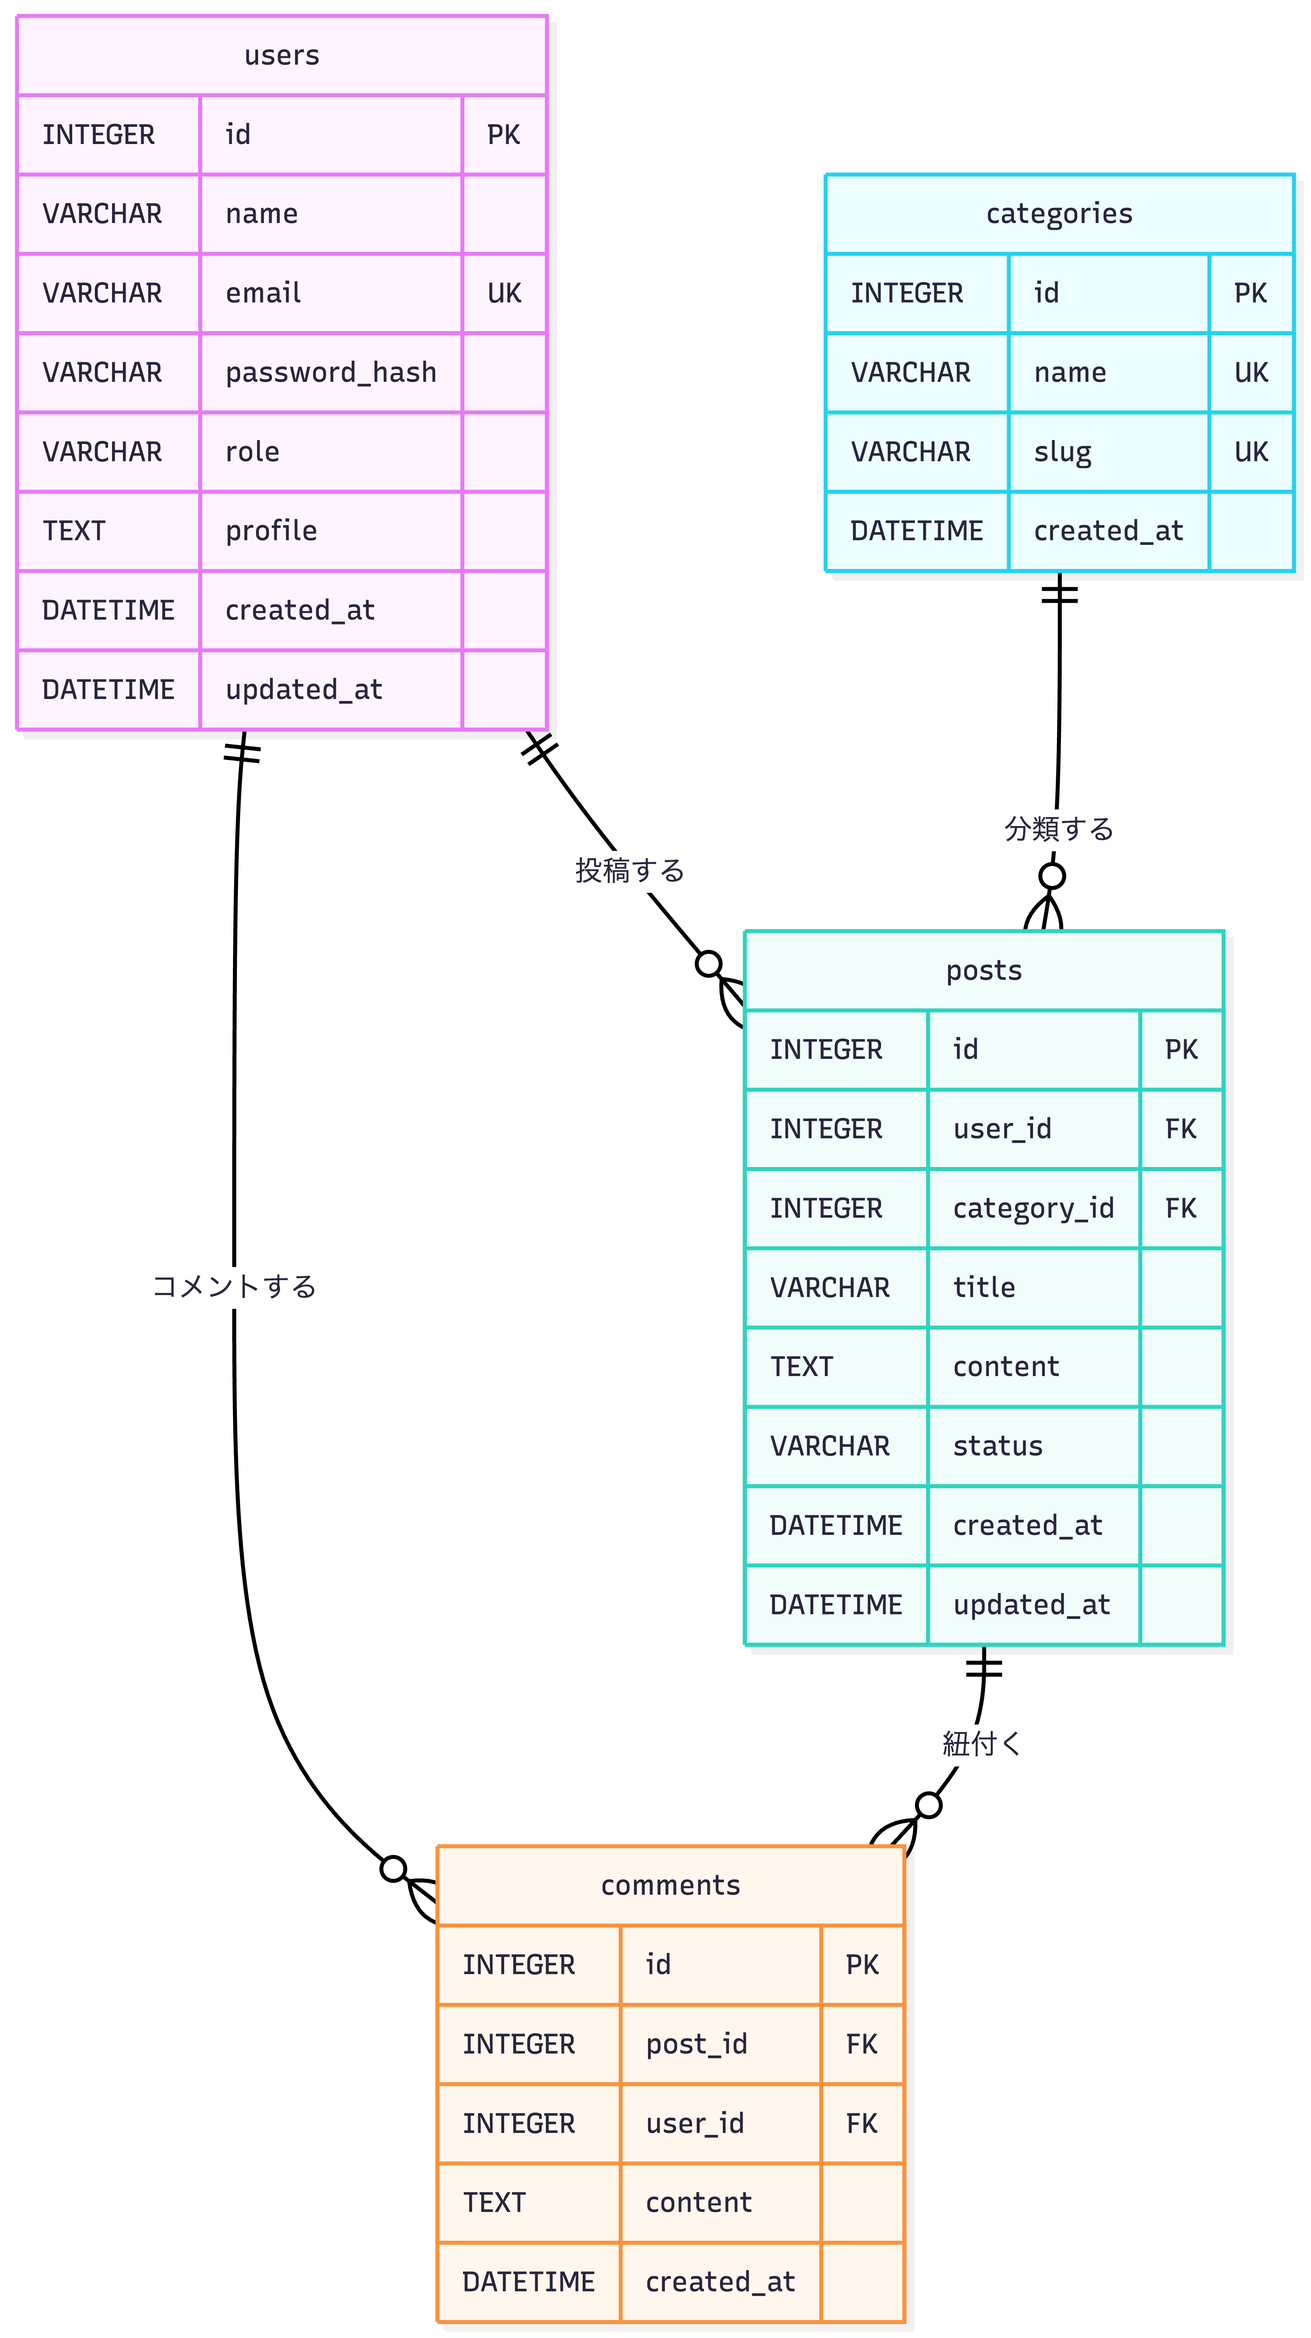
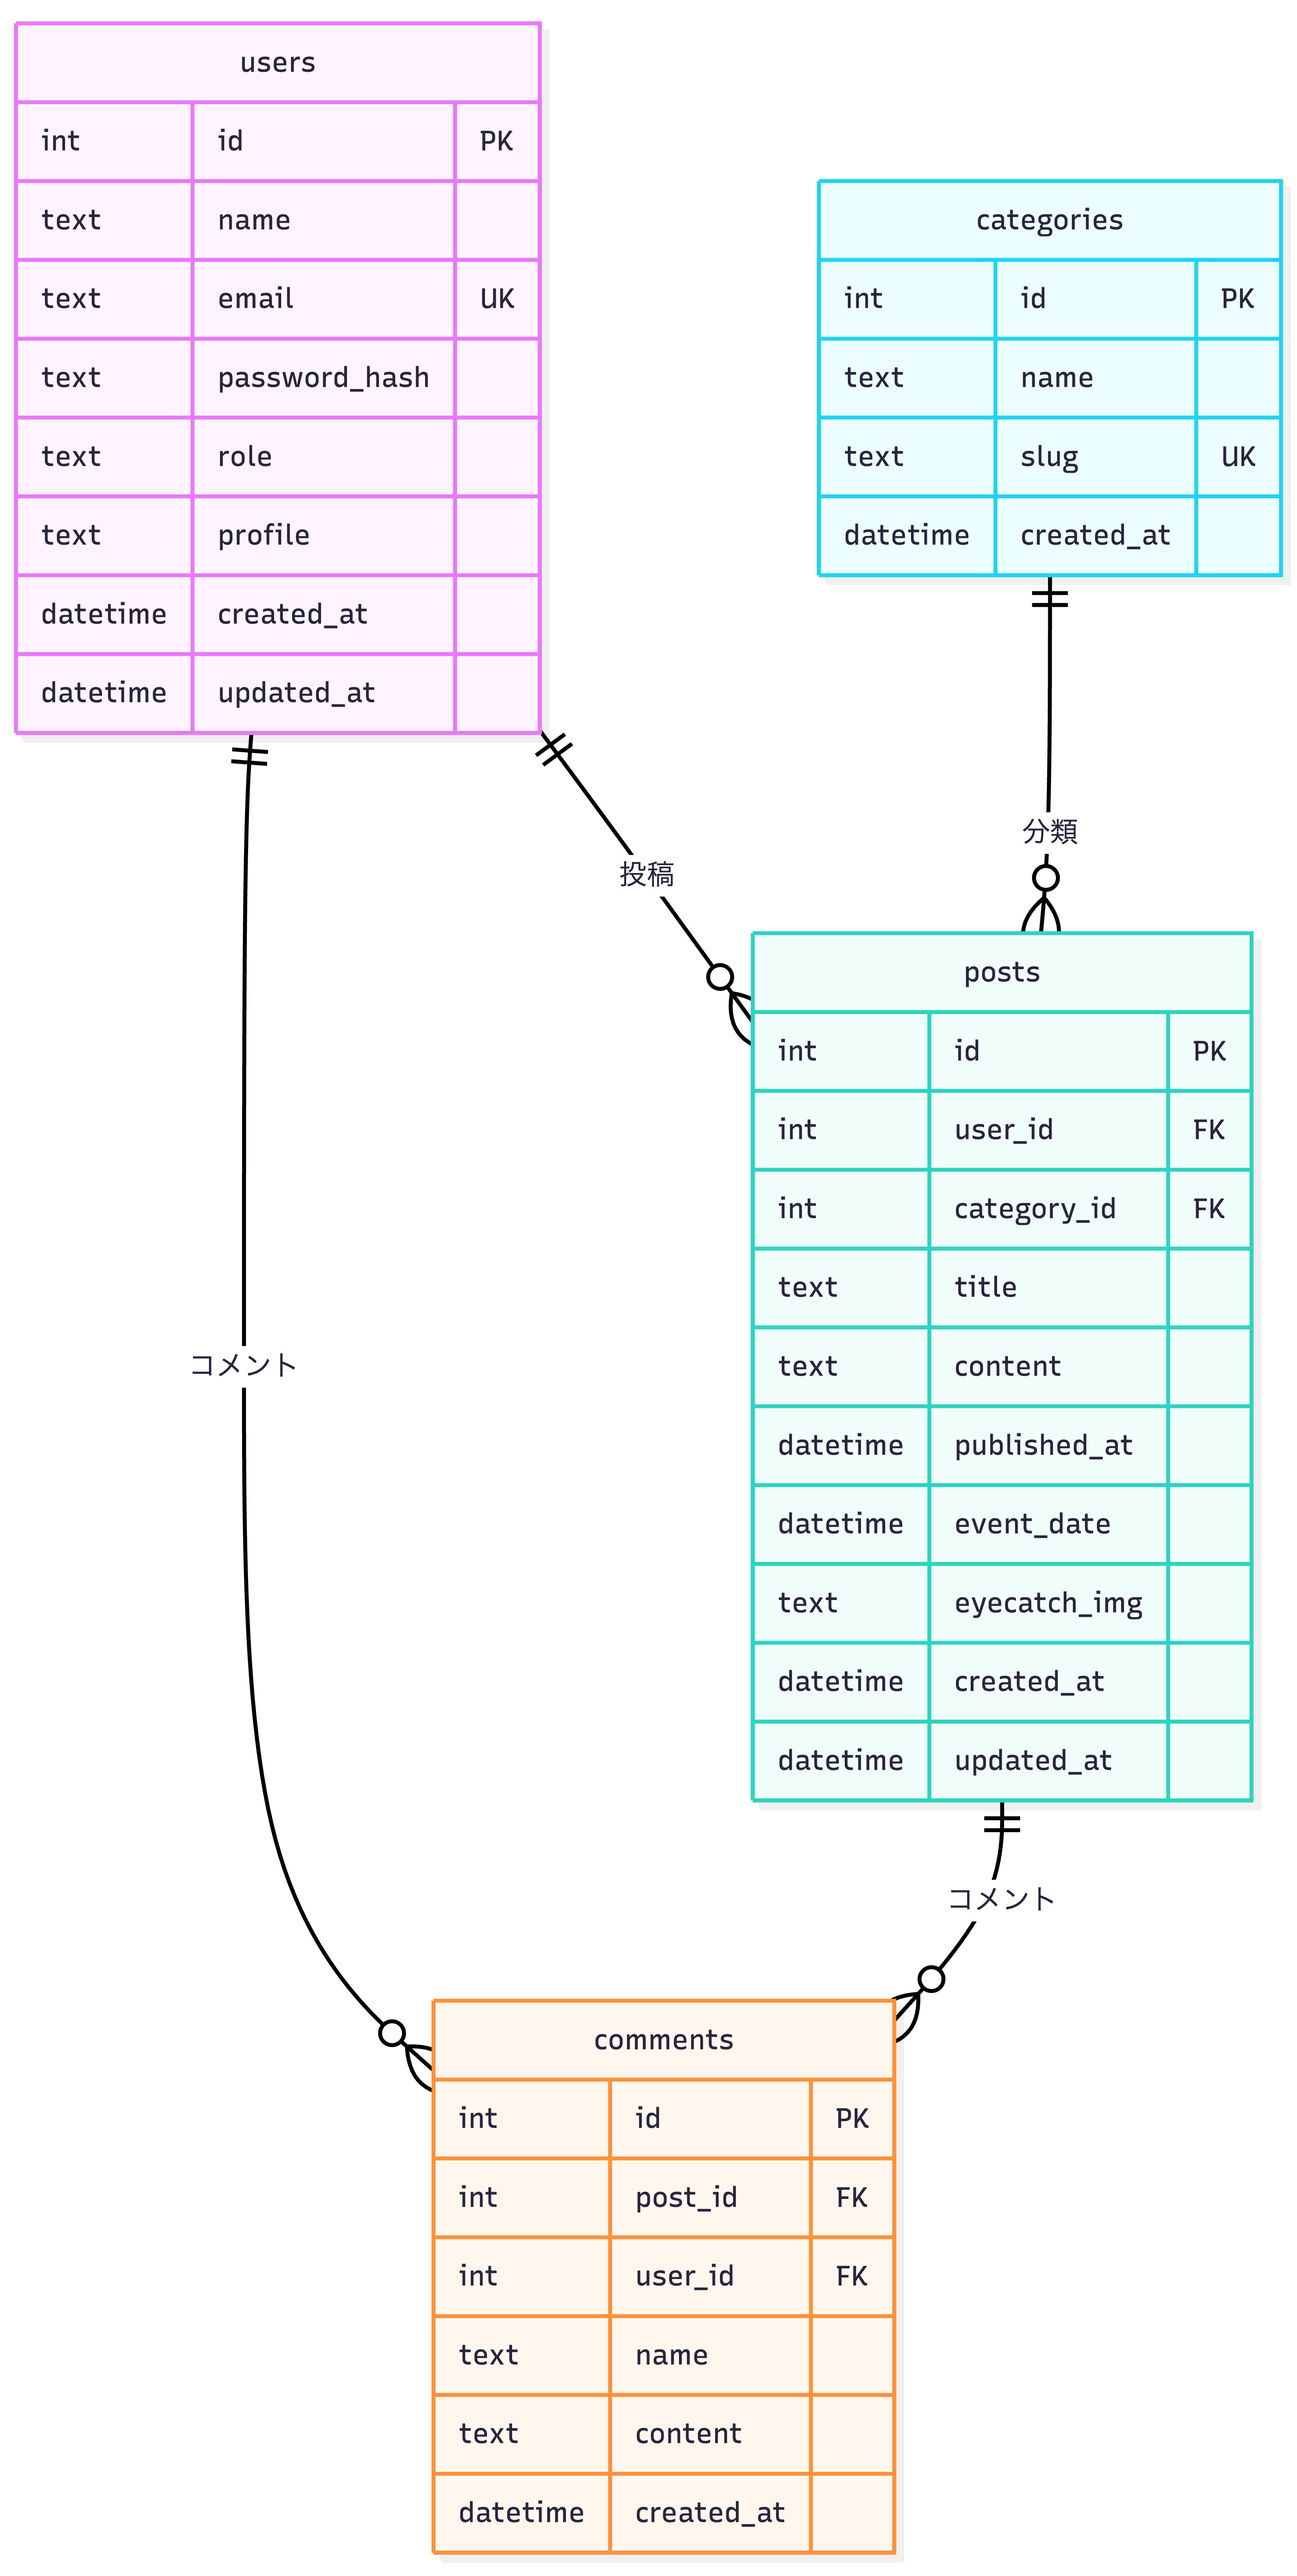
ER図とデータベース設計を追加

diff --git a/docs/database/データベース設計.md b/docs/database/データベース設計.md
@@ -1,0 +1,189 @@
+# データベース設計書
+
+心理療法士同好会 Webサイトで使用する SQLite データベースの設計です。
+
+## 概要
+
+| 項目 | 内容 |
+|------|------|
+| RDBMS | SQLite |
+| 文字コード | UTF-8 |
+| スキーマ定義 | `docs/schema.sql` |
+| ORM | Flask-SQLAlchemy（モデル定義は `app/models.py`） |
+
+---
+
+## エンティティ関連図
+
+```mermaid
+erDiagram
+    users ||--o{ posts : "投稿"
+    users ||--o{ comments : "コメント"
+    categories ||--o{ posts : "分類"
+    posts ||--o{ comments : "コメント"
+
+    users {
+        int id PK
+        text name
+        text email UK
+        text password_hash
+        text role
+        text profile
+        datetime created_at
+        datetime updated_at
+    }
+
+    categories {
+        int id PK
+        text name
+        text slug UK
+        datetime created_at
+    }
+
+    posts {
+        int id PK
+        int user_id FK
+        int category_id FK
+        text title
+        text content
+        datetime published_at
+        datetime event_date
+        text eyecatch_img
+        datetime created_at
+        datetime updated_at
+    }
+
+    comments {
+        int id PK
+        int post_id FK
+        int user_id FK
+        text name
+        text content
+        datetime created_at
+    }
+```
+
+---
+
+## テーブル一覧
+
+| テーブル名 | 説明 |
+|------------|------|
+| users | 利用者（会員・管理者） |
+| categories | 記事カテゴリー |
+| posts | 投稿（記事・イベント告知など） |
+| comments | 記事へのコメント |
+
+---
+
+## 1. users（利用者）
+
+ログイン可能な会員および管理画面を利用する管理者を格納します。
+
+| カラム名 | 型 | NULL | デフォルト | 説明 |
+|----------|-----|------|------------|------|
+| id | INTEGER | NO | 自動採番 | 主キー。利用者を一意に識別するID。 |
+| name | TEXT | NO | — | 表示名。管理画面・記事の「投稿者」やコメント表示に利用。 |
+| email | TEXT | NO | — | ログイン用メールアドレス。一意（UNIQUE）。 |
+| password_hash | TEXT | NO | — | パスワードのハッシュ。Werkzeug の scrypt 等で保存。平文は保存しない。 |
+| role | TEXT | NO | 'member' | 権限。`admin`（管理者）または `member`（会員）。CHECK 制約でこの2つのみ許可。 |
+| profile | TEXT | YES | — | 自己紹介・プロフィール文。任意。 |
+| created_at | DATETIME | — | CURRENT_TIMESTAMP | レコード作成日時。 |
+| updated_at | DATETIME | — | CURRENT_TIMESTAMP | レコード更新日時。更新のたびに更新。 |
+
+**補足**
+
+- 管理画面へのログインは `role = 'admin'` のユーザーのみ可能です。
+- パスワードの設定・検証は `User.set_password()` / `User.check_password()` で行います。
+
+---
+
+## 2. categories（カテゴリー）
+
+記事を分類するためのマスタです。トピックス・イベント・エッセーなど、種別ごとに1レコードです。
+
+| カラム名 | 型 | NULL | デフォルト | 説明 |
+|----------|-----|------|------------|------|
+| id | INTEGER | NO | 自動採番 | 主キー。カテゴリーを一意に識別するID。 |
+| name | TEXT | NO | — | 表示用のカテゴリー名（例：トピックス、イベント告知）。 |
+| slug | TEXT | NO | — | URL・プログラム内で使う識別子。英小文字・ハイフンなど。一意（UNIQUE）。例：`topics`, `event`, `essay`。 |
+| created_at | DATETIME | — | CURRENT_TIMESTAMP | レコード作成日時。 |
+
+**補足**
+
+- 一覧のフィルタや「トピックス」「イベント」などの表示は `slug` で判定しています。
+- `slug = 'event'` のカテゴリーでは、記事の「イベント開催日」が必須になります。
+
+---
+
+## 3. posts（投稿）
+
+ブログ記事・イベント告知・お知らせなどの投稿内容を格納します。
+
+| カラム名 | 型 | NULL | デフォルト | 説明 |
+|----------|-----|------|------------|------|
+| id | INTEGER | NO | 自動採番 | 主キー。記事を一意に識別するID。 |
+| user_id | INTEGER | NO | — | 投稿者。users.id への外部キー。ON DELETE CASCADE。 |
+| category_id | INTEGER | NO | — | カテゴリー。categories.id への外部キー。ON DELETE CASCADE。 |
+| title | TEXT | NO | — | 記事のタイトル（見出し）。 |
+| content | TEXT | NO | — | 本文。HTML 可（TinyMCE 等で編集）。 |
+| published_at | DATETIME | — | CURRENT_TIMESTAMP | 公開日時。この日時を過ぎると一覧・詳細で「公開」として表示。日本時間（JST）で入力・比較する想定。 |
+| event_date | DATETIME | YES | — | イベント開催日時。カテゴリーが「イベント」の場合に使用。任意。 |
+| eyecatch_img | TEXT | YES | — | アイキャッチ画像のファイル名。実体は `static/uploads/eyecatch/` に保存。 |
+| created_at | DATETIME | — | CURRENT_TIMESTAMP | レコード作成日時。 |
+| updated_at | DATETIME | — | CURRENT_TIMESTAMP | レコード更新日時。 |
+
+**補足**
+
+- 公開判定は「現在時刻（JST）」と `published_at` の比較で行っています。
+- `event_date` はイベントカテゴリー用。一覧の日付表示や「開催日」として利用します。
+- `user_id` は管理画面の「投稿者」選択に紐づき、記事の著者表示（author）に使います。
+
+**インデックス**
+
+- `idx_posts_user_id` … user_id
+- `idx_posts_category_id` … category_id
+
+---
+
+## 4. comments（コメント）
+
+記事に対するコメントを格納します。会員ログイン済みの場合は user_id を紐づけ、未ログインの場合は名前のみで投稿できます。
+
+| カラム名 | 型 | NULL | デフォルト | 説明 |
+|----------|-----|------|------------|------|
+| id | INTEGER | NO | 自動採番 | 主キー。コメントを一意に識別するID。 |
+| post_id | INTEGER | NO | — | 対象記事。posts.id への外部キー。ON DELETE CASCADE。 |
+| user_id | INTEGER | YES | — | 会員としてコメントした場合の利用者。users.id への外部キー。非会員の場合は NULL。ON DELETE SET NULL。 |
+| name | TEXT | NO | — | 表示名。会員の場合は users.name を、非会員の場合は入力された名前を保存。 |
+| content | TEXT | NO | — | コメント本文。 |
+| created_at | DATETIME | — | CURRENT_TIMESTAMP | 投稿日時。 |
+
+**補足**
+
+- 記事削除時にコメントは CASCADE で削除されます。
+- 会員削除時はその会員のコメントの `user_id` が SET NULL になり、`name` は残ります。
+
+**インデックス**
+
+- `idx_comments_post_id` … post_id（記事ごとのコメント取得用）
+
+---
+
+## リレーション概要
+
+| 親テーブル | 子テーブル | 関係 | 外部キー |
+|------------|------------|------|----------|
+| users | posts | 1 対 多 | posts.user_id → users.id |
+| users | comments | 1 対 多 | comments.user_id → users.id |
+| categories | posts | 1 対 多 | posts.category_id → categories.id |
+| posts | comments | 1 対 多 | comments.post_id → posts.id |
+
+---
+
+## 初期データ（schema.sql）
+
+- **users**: 管理者1件（email: `admin@example.com`, role: `admin`）。
+- **categories**: トピックス、エッセー・書評、イベント、研究会、その他 の5件（schema により名前・slug が若干異なる場合があります。実際は `docs/schema.sql` を参照）。
+
+アプリ側のシード（`flask seed-db`）では、別のカテゴリーセットや管理者パスワード（例: `password123`）で投入する場合があります。運用に合わせて `schema.sql` または `app/commands.py` のどちらを正とするか決めてください。
